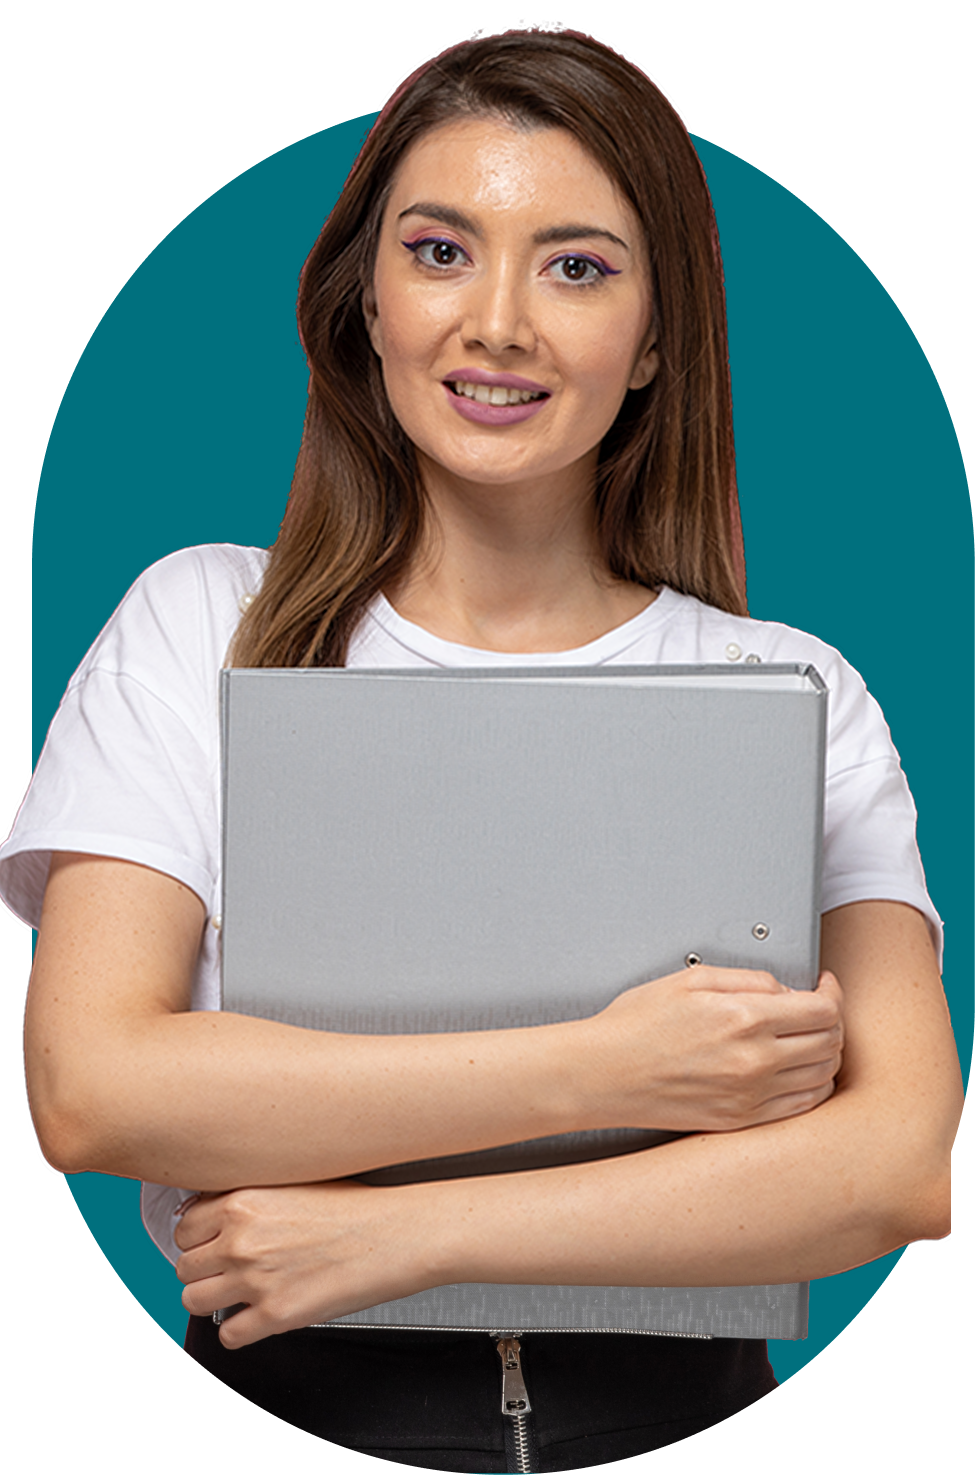
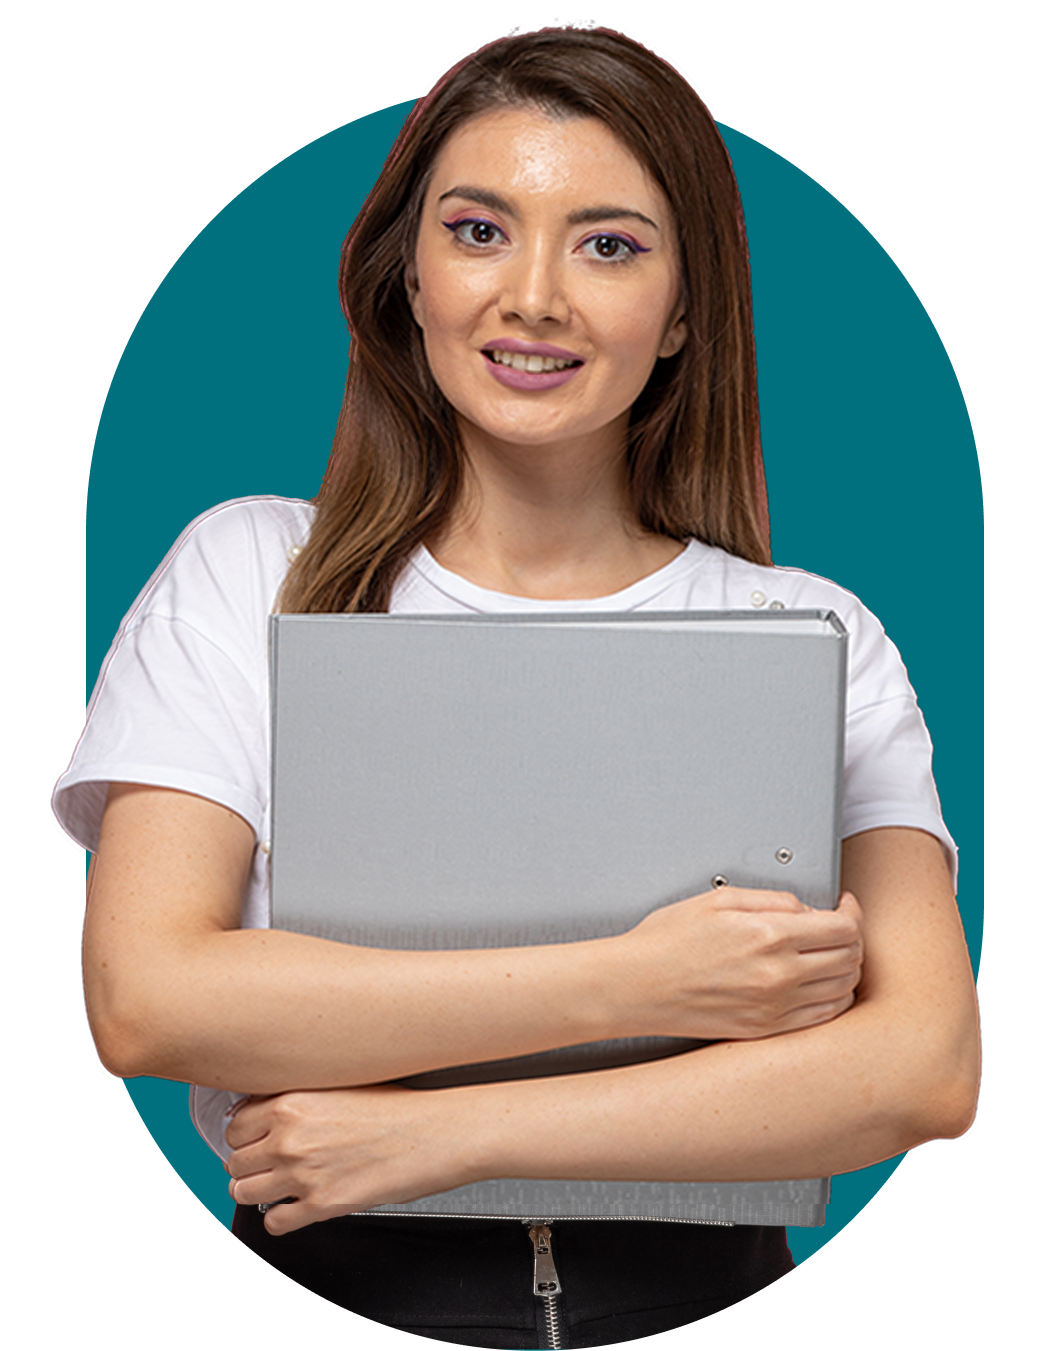
feat: stylize onboarding item plus image

diff --git a/components/onBoarding/OnBoardingItem.tsx b/components/onBoarding/OnBoardingItem.tsx
@@ -35,11 +35,10 @@ const styles = StyleSheet.create({
     paddingHorizontal: 20,
   },
   imageContainer: {
-    width: 250,
-    height: 250,
+    width: 350,
+    height: 450,
     borderRadius: 125,
-    overflow: "hidden",
-    backgroundColor: "#E6F4F1",
+    // backgroundColor: "#E6F4F1",
     marginBottom: 30,
   },
   image: {
